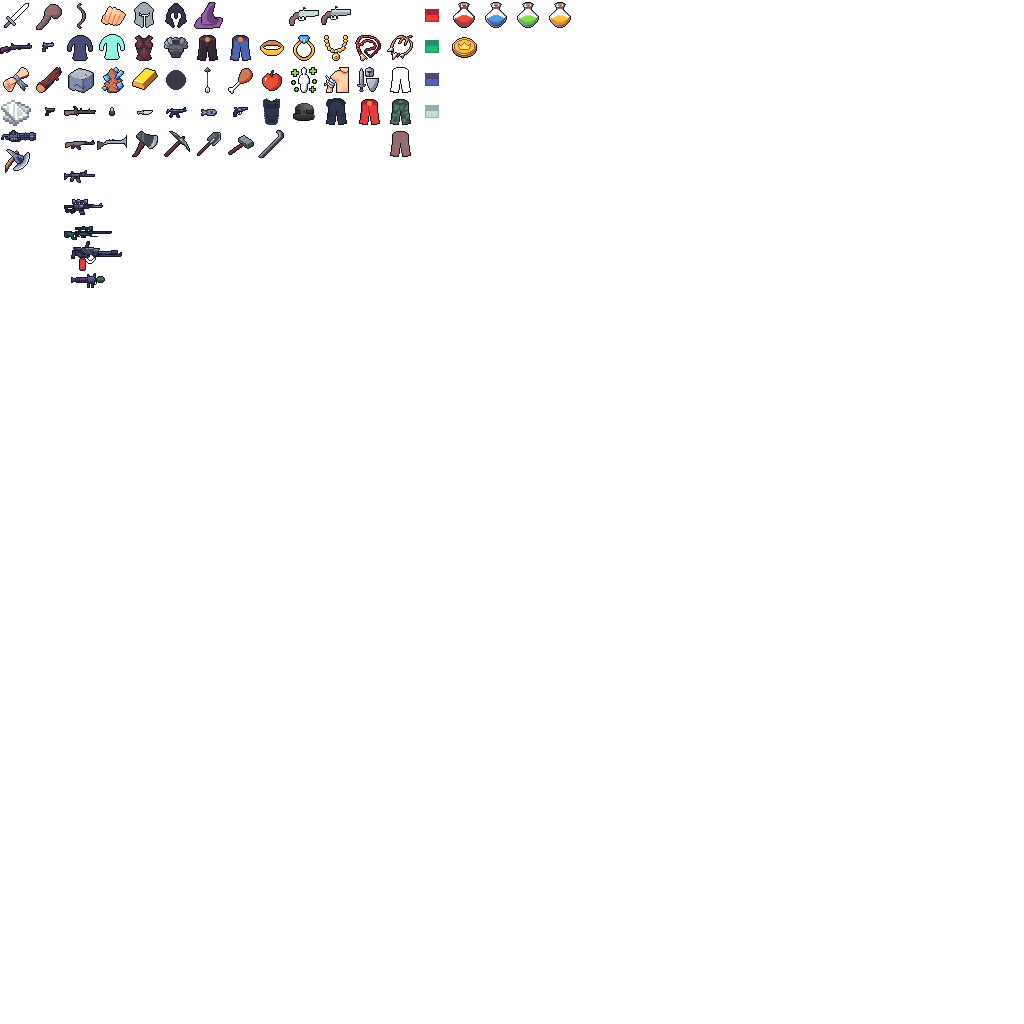
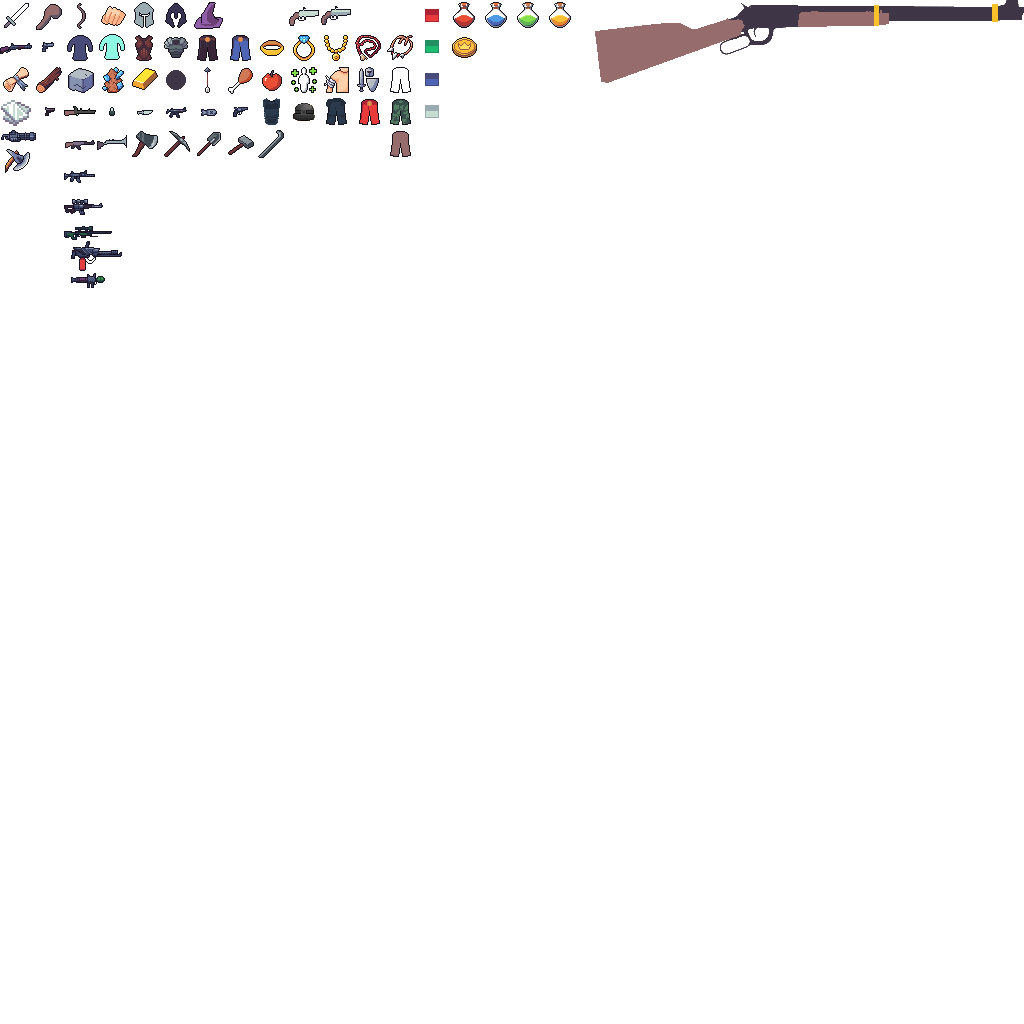
0.7.352

Changed region(s): [[0.5625, 0.0, 1.0, 0.0938]]

diff --git a/gamestream_flutter/lib/game_ui.dart b/gamestream_flutter/lib/game_ui.dart
@@ -262,7 +262,7 @@ class GameUI {
                 width: GameUIConfig.runButtonSize,
                 height: GameUIConfig.runButtonSize,
                 alignment: Alignment.center,
-                child: watch(GamePlayer.weapon, (int itemType) => buildAtlasItemType(itemType, scale: 3)),
+                child: watch(GamePlayer.weapon, (int itemType) => buildAtlasItemType(itemType)),
                 decoration: BoxDecoration(
                   shape: BoxShape.circle,
                   border: Border.all(color: Colors.white70, width: 5),
@@ -401,7 +401,7 @@ class GameUI {
         color: color,
       );
 
-  static Widget buildAtlasItemType(int itemType, {double scale = 1.25}) =>
+  static Widget buildAtlasItemType(int itemType) =>
       FittedBox(
         child: Engine.buildAtlasImage(
           image: ItemType.isTypeGameObject(itemType)
@@ -411,7 +411,6 @@ class GameUI {
           srcY: AtlasItems.getSrcY(itemType),
           srcWidth: AtlasItems.getSrcWidth(itemType),
           srcHeight: AtlasItems.getSrcHeight(itemType),
-          scale: 1.25,
         ),
       );
 
@@ -636,10 +635,12 @@ class GameUI {
                mainAxisAlignment: MainAxisAlignment.spaceBetween,
                children: [
                  Container(
-                     width: 100,
+                     constraints: const BoxConstraints(maxWidth: 150),
                      child: buildAtlasItemType(itemType),
                      height: 50,
-                     alignment: Alignment.centerLeft,
+                     alignment: Alignment.center,
+                     color: Colors.black12,
+                     padding: GameStyle.Padding_4,
                  ),
                  if (itemValue > 0) buildItemTypeBars(itemValue),
                  onPressed(
@@ -809,9 +810,10 @@ class GameUI {
                      color: active ? playerWeaponType == itemType ? Colors.white70 : Colors.black54 : Colors.transparent,
                      width: Border_Width,
                      child: Container(
+                       constraints: BoxConstraints(maxWidth: 100),
                        height: GameStyle.Player_Weapons_Icon_Size,
                        color: active ? Colors.black45 : Colors.black12,
-                       padding: GameStyle.Padding_2,
+                       padding: GameStyle.Padding_4,
                        child: buildAtlasItemType(itemType),
                      ),
                    );
@@ -1069,7 +1071,7 @@ class GameUI {
   }) => Stack(
       children: [
         buildAtlasIconType(IconType.Slot, scale: 2.0),
-        buildAtlasItemType(itemType, scale: 1.8),
+        buildAtlasItemType(itemType),
         Positioned(
           left: 5,
           top: 5,

diff --git a/gamestream_flutter/lib/game_atlas.dart b/gamestream_flutter/lib/game_atlas.dart
@@ -68,7 +68,7 @@ class AtlasItems {
         ItemType.Weapon_Ranged_Handgun: 32,
         ItemType.Weapon_Ranged_Desert_Eagle: 32,
         ItemType.Weapon_Ranged_Revolver: 224,
-        ItemType.Weapon_Ranged_Rifle: 64,
+        ItemType.Weapon_Ranged_Rifle: 595,
         ItemType.Weapon_Ranged_Musket: 64,
         ItemType.Weapon_Ranged_M4: 64,
         ItemType.Weapon_Ranged_AK_47: 64,
@@ -168,7 +168,7 @@ class AtlasItems {
         ItemType.Weapon_Ranged_Handgun: 96,
         ItemType.Weapon_Ranged_Revolver: 96,
         ItemType.Weapon_Ranged_Desert_Eagle: 32,
-        ItemType.Weapon_Ranged_Rifle: 96,
+        ItemType.Weapon_Ranged_Rifle: 0,
         ItemType.Weapon_Ranged_Musket: 96,
         ItemType.Weapon_Ranged_AK_47: 128,
         ItemType.Weapon_Ranged_M4: 160,
@@ -221,6 +221,7 @@ class AtlasItems {
         ItemType.Weapon_Ranged_Flamethrower: 64,
         ItemType.Weapon_Ranged_Bazooka: 48,
         ItemType.Weapon_Ranged_Minigun: 35,
+        ItemType.Weapon_Ranged_Rifle: 429,
       }[itemType] ?? size;
 
   static double getSrcHeight(int itemType) => const <int, double>{
@@ -257,6 +258,7 @@ class AtlasItems {
         ItemType.Weapon_Ranged_Sniper_Rifle: 16,
         ItemType.Weapon_Ranged_Bazooka: 16,
         ItemType.Weapon_Ranged_Minigun: 12,
+        ItemType.Weapon_Ranged_Rifle: 83,
   }[itemType] ?? size;
 
   static double getSrcScale(int itemType) => const <int, double> {

diff --git a/gamestream_flutter/lib/game_inventory_ui.dart b/gamestream_flutter/lib/game_inventory_ui.dart
@@ -249,7 +249,6 @@ class GameInventoryUI {
               children: [
                 GameUI.buildAtlasItemType(
                   itemType ?? ServerQuery.getItemTypeAtInventoryIndex(itemIndex),
-                  scale: scale,
                 ),
                 if (itemQuantity != null && itemQuantity > 1)
                   Positioned(child: text(itemQuantity, size: 13, color: Colors.white70), right: 0, bottom: 0),
@@ -724,7 +723,9 @@ class GameInventoryUI {
           Expanded(
             child: Row(
               children: [
-                GameUI.buildAtlasItemType(recipeItemType, scale: 0.75),
+                Container(
+                    constraints: const BoxConstraints(maxWidth: 150),
+                    child: GameUI.buildAtlasItemType(recipeItemType)),
                 width4,
                 text(ItemType.getName(recipeItemType), color: textColor),
               ],

diff --git a/gamestream_flutter/lib/game_style.dart b/gamestream_flutter/lib/game_style.dart
@@ -25,6 +25,7 @@ class GameStyle {
   static final Text_Color_Default = Colors.white.withOpacity(0.85);
 
   static const Padding_2 = EdgeInsets.all(2);
+  static const Padding_4 = EdgeInsets.all(4);
   static const Padding_6 = EdgeInsets.all(6);
   static const Padding_10 = EdgeInsets.all(10);
   static const Null = SizedBox();

diff --git a/bleed-common/lib/src/version.dart b/bleed-common/lib/src/version.dart
@@ -1,4 +1,4 @@
-const version = '0.7.351';
+const version = '0.7.352';
 
 
 

diff --git a/bleed-server/lib/common/src/version.dart b/bleed-server/lib/common/src/version.dart
@@ -1,4 +1,4 @@
-const version = '0.7.351';
+const version = '0.7.352';
 
 
 
